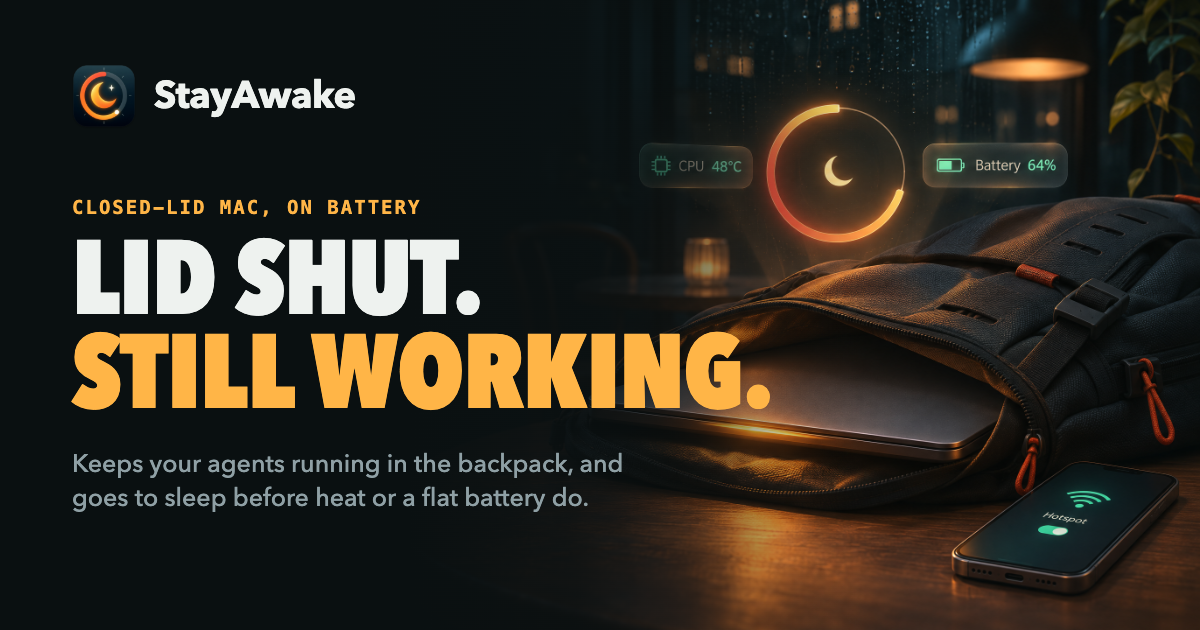
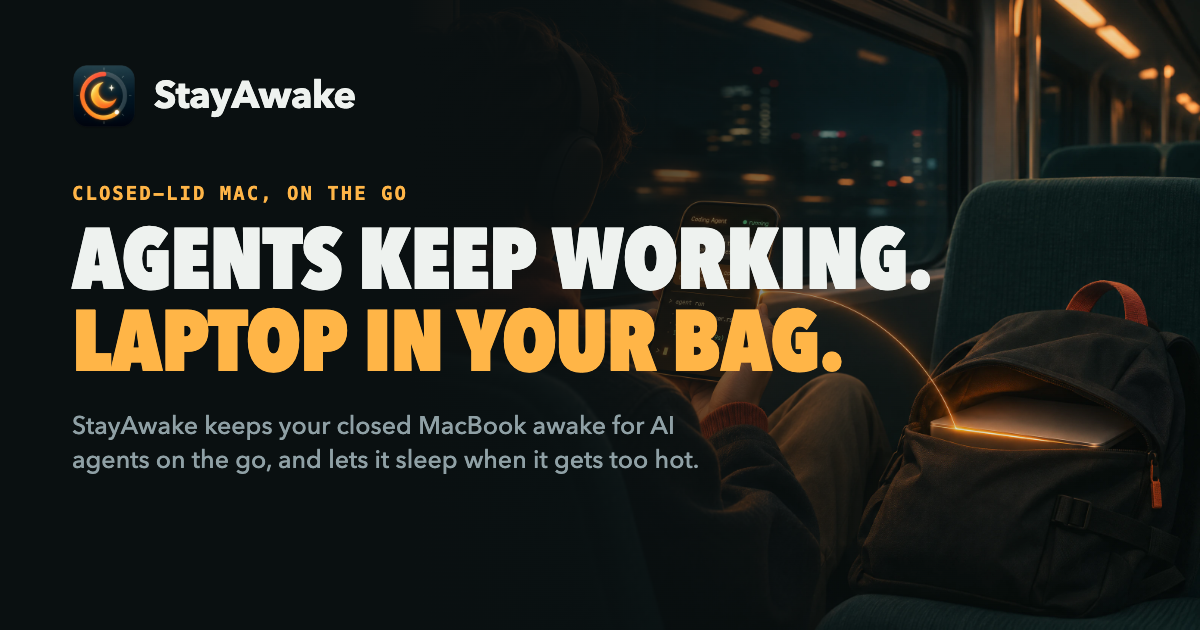
feat(site): update og image to on the go message

diff --git a/design/source/og.html b/design/source/og.html
@@ -3,21 +3,21 @@
 <html><head><meta charset="utf-8"><style>
   html,body{margin:0;width:1200px;height:630px;overflow:hidden;background:#0a1011;color:#eef2ef;
     font-family:"Avenir Next Condensed","Helvetica Neue",Arial,sans-serif}
-  .bg{position:absolute;inset:0;background:url(raw/hero-2.webp) right center/auto 100% no-repeat}
-  .fade{position:absolute;inset:0;background:linear-gradient(90deg,#0a1011 0%,#0a1011 34%,rgba(10,16,17,.85) 48%,rgba(10,16,17,0) 72%)}
+  .bg{position:absolute;inset:0;background:url(raw/feature-onthego.webp) right center/auto 100% no-repeat}
+  .fade{position:absolute;inset:0;background:linear-gradient(90deg,#0a1011 0%,#0a1011 34%,rgba(10,16,17,.8) 50%,rgba(10,16,17,.15) 80%,rgba(10,16,17,0) 100%)}
   .pad{position:relative;padding:64px 0 0 72px}
   .brand{display:flex;align-items:center;gap:18px;font:700 38px/1 "Avenir Next","Helvetica Neue",sans-serif;letter-spacing:-.5px}
   .brand img{width:76px;height:76px;margin:-6px}
-  .kick{margin-top:70px;font:600 19px/1 ui-monospace,Menlo,monospace;color:#ffb547;letter-spacing:2px;text-transform:uppercase}
-  h1{margin:18px 0 0;font-weight:800;font-size:104px;line-height:.9;text-transform:uppercase;letter-spacing:-1px}
+  .kick{margin-top:56px;font:600 19px/1 ui-monospace,Menlo,monospace;color:#ffb547;letter-spacing:2px;text-transform:uppercase}
+  h1{margin:18px 0 0;font-weight:800;font-size:86px;line-height:.95;text-transform:uppercase;letter-spacing:-1px}
   h1 em{font-style:normal;color:#ffb547}
-  p{margin:26px 0 0;font:500 25px/1.35 "Avenir Next","Helvetica Neue",sans-serif;color:#8fa0a5;max-width:560px}
+  p{margin:26px 0 0;font:500 25px/1.35 "Avenir Next","Helvetica Neue",sans-serif;color:#8fa0a5;max-width:640px}
 </style></head><body>
 <div class="bg"></div><div class="fade"></div>
 <div class="pad">
   <div class="brand"><img src="../icon/icon-1024.png" alt="">StayAwake</div>
-  <div class="kick">Closed-lid Mac, on battery</div>
-  <h1>Lid shut.<br><em>Still working.</em></h1>
-  <p>Keeps your agents running in the backpack, and goes to sleep before heat or a flat battery do.</p>
+  <div class="kick">Closed-lid Mac, on the go</div>
+  <h1>Agents keep working.<br><em>Laptop in your bag.</em></h1>
+  <p>StayAwake keeps your closed MacBook awake for AI agents on the go, and lets it sleep when it gets too hot.</p>
 </div>
 </body></html>
